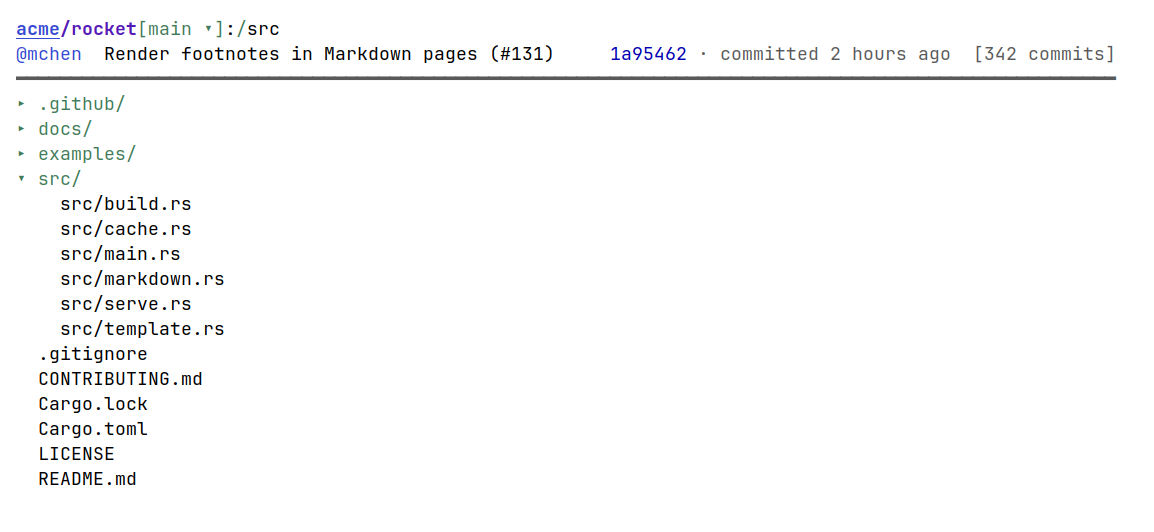
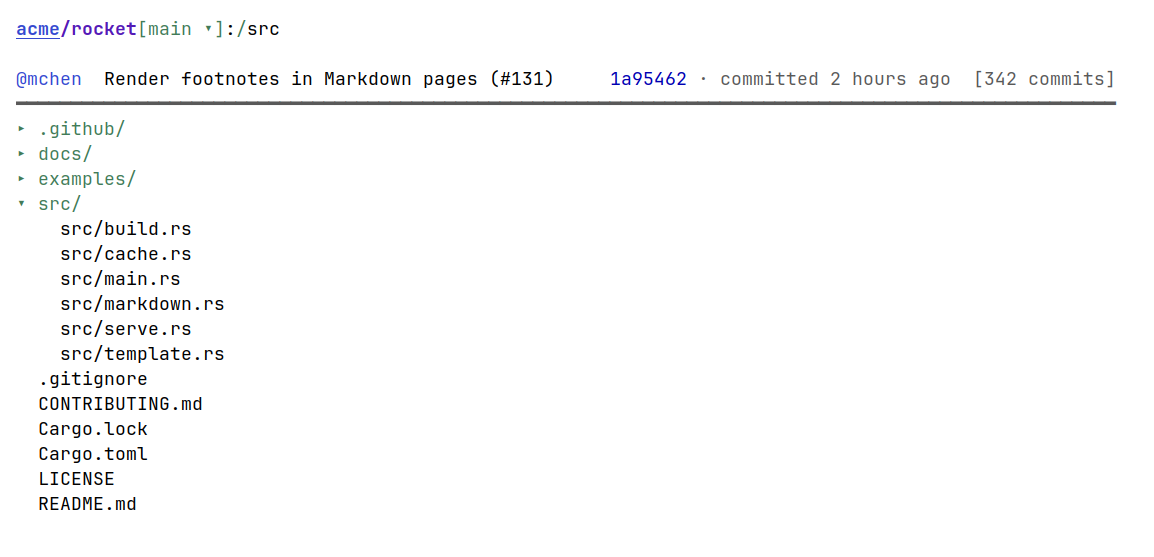
Set the last commit apart from the top line in the tree and file pages
The repo page leaves a blank line between its top line and the last
commit's; the tree browser and file viewer now do too, so the commit
reads as content rather than part of the page's name.  The README's
tree example showed the repo page's old layout, and now the tree's.

Changed region(s): [[0.0, 0.1805, 0.9671, 0.9323], [0.0, 0.0301, 0.9671, 0.1504]]

diff --git a/README.md b/README.md
@@ -137,9 +137,10 @@ GitHub's sidebar, opened down to the directory or file it was opened
 at, with point on it:
 
 ```
-owner/repo
+owner/repo[main ▾]:/
 
-[main ▾]  a9fc167  Show open issue and PR counts …  [62 commits]
+@alice  Show open issue and PR counts …  a9fc167 · committed 1 day ago  [62 commits]
+━━━━━━━━━━━━━━━━━━━━━━━━━━━━━━━━━━━━━━━━━━━━━━━━━━━━━━━━━━━━━━━━━━━━━━━━━━━━━━━━━━━
 ▸ .github/
 ▾ docs/
     user-interface-conventions.md
@@ -349,8 +350,8 @@ major mode.
 The top of the page is the tree browser's: `owner/repo[main ▾]:/dir/file`,
 the branch picker and the path, whose directories open the tree browser
 down to them, and `[Browse tree]`, which opens it down to the file.
-Under it are the file's last commit and a `[N commits]` button to its
-history, then a rule.  A branch name longer than `octocat-ref-max-width`
+Under it, after a blank line, are the file's last commit and a
+`[N commits]` button to its history, then a rule.  A branch name longer than `octocat-ref-max-width`
 is cut in its middle, there and in every branch picker; hovering over
 it shows it in full, as does picking a branch.  Each ref of a file has a buffer of its own, named
 `*owner/repo@ref:path*`; `C-c C-b`, or `RET` on the picker, opens the

diff --git a/CHANGELOG.md b/CHANGELOG.md
@@ -4,6 +4,7 @@ All notable changes to this project will be documented in this file.
 The format is based on [Keep a Changelog](https://keepachangelog.com/en/1.0.0/).
 
 ## [Unreleased]
+* A blank line sets the last commit apart in the tree browser and file viewer
 * `C-c C-o` on a repository on its default branch opens the repository's page
 * Long lines in diffs, logs and files are cut, with a button to show the rest
 * The file viewer asks before showing a large file, and does not show binary files

diff --git a/docs/user-interface-conventions.md b/docs/user-interface-conventions.md
@@ -828,6 +828,12 @@ strip, so the name stands apart from it.
 
 A new page starts the same way, using `octocat-vui-repo-heading`.
 
+### The last commit stands apart from the top line
+
+On the repository page, the tree browser and the file viewer a blank
+line sets the last commit's line apart from the top line, so it reads
+as content, not as part of the page's name.
+
 ### The owner links, the repo name does not
 
 On a page's first line the owner links to the owner's user or
